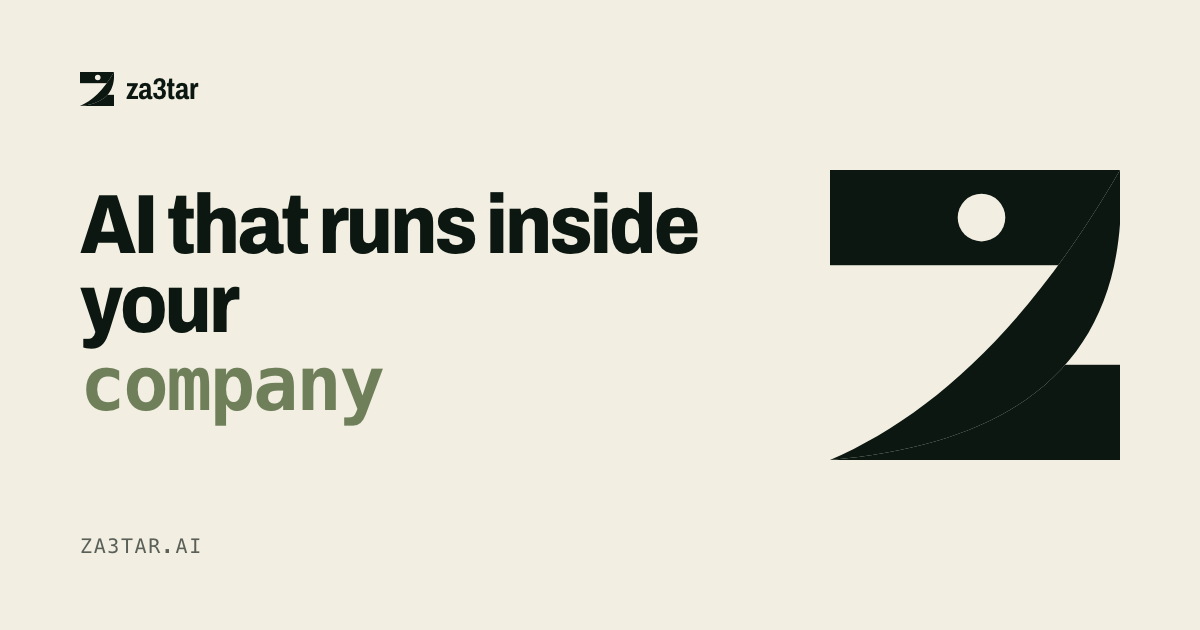
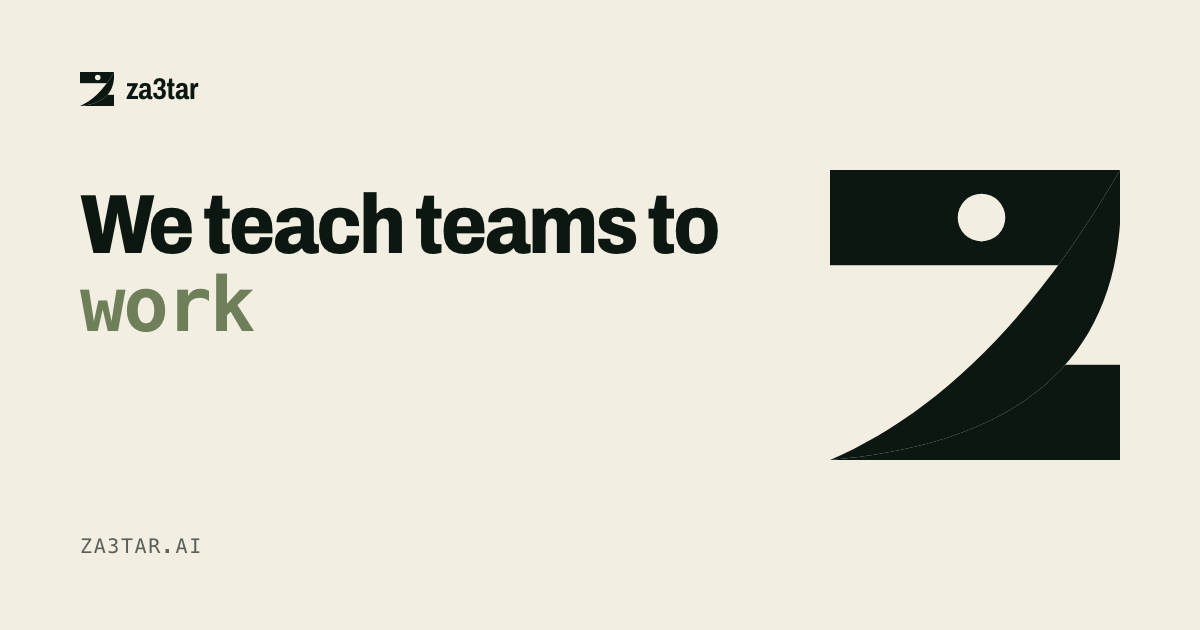
Lead with teaching: we teach teams to work, build, experiment
Ala wants the hero about enablement and education; the split-flap verb
from the old site carries it.

Changed region(s): [[0.0617, 0.3016, 0.6167, 0.6937]]

diff --git a/site/index.html b/site/index.html
@@ -3,16 +3,16 @@
 <head>
 <meta charset="utf-8">
 <meta name="viewport" content="width=device-width, initial-scale=1, viewport-fit=cover">
-<title>za3tar — AI that runs inside your company</title>
-<meta name="description" content="Every company gets the same start: one AI teammate in your team's chat, connected to your tools. Your team teaches it how the work really runs, because nobody knows that better than them.">
-<meta property="og:title" content="za3tar — AI that runs inside your company">
-<meta property="og:description" content="Every company gets the same start: one AI teammate in your team's chat, connected to your tools. Your team teaches it how the work really runs, because nobody knows that better than them.">
+<title>za3tar — we teach teams to work with AI</title>
+<meta name="description" content="We teach teams to work with AI: on their own work, in their own chat, with their own tools. We set it up, work beside your people, and step back once they run it.">
+<meta property="og:title" content="za3tar — we teach teams to work with AI">
+<meta property="og:description" content="We teach teams to work with AI: on their own work, in their own chat, with their own tools. We set it up, work beside your people, and step back once they run it.">
 <meta property="og:type" content="website">
 <meta property="og:url" content="https://za3tar.ai/">
 <meta property="og:image" content="https://za3tar.ai/og.png">
 <meta property="og:image:width" content="1200">
 <meta property="og:image:height" content="630">
-<meta property="og:image:alt" content="za3tar — AI that runs inside your company">
+<meta property="og:image:alt" content="za3tar — we teach teams to work with AI">
 <meta name="twitter:card" content="summary_large_image">
 <meta name="twitter:image" content="https://za3tar.ai/og.png">
 <link rel="canonical" href="https://za3tar.ai/">
@@ -291,8 +291,8 @@ footer a:hover{color:var(--ink)}
 
 <header class="hero">
   <div>
-    <h1 class="display">AI that runs inside your <span class="flip" id="flip"><span class="fw">company</span></span></h1>
-    <p>Every company gets the same start: one AI teammate in the chat your team already uses, connected to the tools you already run. Then your team teaches it how the work really runs, because nobody knows that better than them.</p>
+    <h1 class="display">We teach teams to <span class="flip" id="flip"><span class="fw">work</span></span></h1>
+    <p>With AI, on your own work, in your own chat, with your own tools. We set it up, work beside your people, and step back once they run it.</p>
     <div class="ctas"><a class="btn" href="#start">Tell us about your company <span class="ar">→</span></a><a class="btn ghost" href="https://wa.me/962798885558?text=Hi%2C%20I%27d%20like%20to%20book%20a%20session." target="_blank" rel="noopener">Book a session</a></div>
   </div>
 
@@ -437,7 +437,7 @@ footer a:hover{color:var(--ink)}
 </svg>
 <script>
 (function(){
-  var words=['company','team','chat','sales','ops','events','week'];
+  var words=['work','build','experiment','sell','plan','ship','hire','grow'];
   var box=document.getElementById('flip'), w=box&&box.querySelector('.fw');
   if(!box||!w||matchMedia('(prefers-reduced-motion: reduce)').matches) return;
   // the word sits on its own line, so its width never moves the rest of the headline

diff --git a/scripts/og/og.html b/scripts/og/og.html
@@ -20,7 +20,7 @@ h1 .w{display:block;font-family:var(--mono);font-weight:700;letter-spacing:-.03e
 </head>
 <body>
 <div class="logo"><img src="../../site/brand/mark-mono.svg" alt="">za3tar</div>
-<h1>AI that runs inside your <span class="w">company</span></h1>
+<h1>We teach teams to <span class="w">work</span></h1>
 <img class="mark" src="../../site/brand/mark-mono.svg" alt="">
 <div class="url">ZA3TAR.AI</div>
 </body>

diff --git a/docs/HERO-OPTIONS-JELLO.md b/docs/HERO-OPTIONS-JELLO.md
@@ -1,0 +1,71 @@
+1.
+
+Nobody knows the work better.
+
+We train one AI teammate, put it in your team’s chat and connect the tools. Your team teaches it how the work should actually run.
+
+(Starts with Ala’s real belief and says it with confidence.)
+
+2.
+
+The AI your team builds.
+
+We train it and put it where the work happens. Your team teaches it, shapes it and decides what it takes on.
+
+(Puts the team in control using five plain words.)
+
+3.
+
+Make your company work your way.
+
+One AI teammate joins your chat and tools. The people doing the work teach it the details and decide where it can help.
+
+(Direct, slightly defiant and very clear about who leads.)
+
+4.
+
+Teach it how work really works.
+
+We bring the AI teammate and connect the tools. Your team shows it what matters, what gets missed and what good looks like.
+
+(Sounds spoken and gets straight to the real work.)
+
+5.
+
+Build the way work should work.
+
+Start with one AI teammate in your chat. Your team teaches it through real work and makes it useful across the company, one job at a time.
+
+(Has some edge, while keeping the idea practical.)
+
+6.
+
+Put AI to actual work.
+
+One teammate, inside the chat, connected to the tools. Your team teaches it the job and decides what it should do next.
+
+(Blunt and outcome-led, with no grand AI promise.)
+
+7.
+
+Your team decides what AI does.
+
+We train one teammate and connect it to the company. The people closest to the work teach it where it can actually help.
+
+(Says the power dynamic plainly and confidently.)
+
+8.
+
+Taught by your team.
+
+We train one AI teammate, put it in the chat and connect the tools. Your people teach it how the work really goes and what it does next.
+
+(Rotating green word: team / sales / ops / finance / people. Simple, specific and true to the model.)
+
+Top 2:
+
+1. “Nobody knows the work better.”
+This is the strongest expression of the whole Za3tar belief. It sounds human, confident and naturally sets up why the team teaches the AI.
+
+2. “Taught by your team.”
+This is the sharpest product line. It explains what makes Za3tar different in four words, and the rotating word can show that every part of the company gets involved.

diff --git a/docs/HOMEPAGE-COPY-V2.md b/docs/HOMEPAGE-COPY-V2.md
@@ -7,16 +7,16 @@ Built in PR feat/homepage-v2. Reworded after review: ask how the company should 
 
 ## 1. Hero
 
-**AI that runs inside your company.**
+**We teach teams to *work*.**
 
-Every company gets the same start: one AI teammate in the chat your team already uses, connected to the tools you already run. Then your team teaches it how the work really runs, because nobody knows that better than them.
+The green word flips: work / build / experiment / sell / plan / ship / hire / grow.
+
+With AI, on your own work, in your own chat, with your own tools. We set it up, work beside your people, and step back once they run it.
 
 [ Tell us about your company → ]  (jumps to the box at the bottom)
 [ Book a session ]  (WhatsApp)
 
-> Other headlines, if the first one doesn't land:
-> - "Your whole team, one AI teammate."
-> - "The work your team repeats every week, done by an agent you trust."
+Rejected along the way: "AI that runs inside your company", the magic-wand heroes, Jello's eight (docs/HERO-OPTIONS-JELLO.md), and a live chat in the hero (read as a chatbot).
 
 ---
 
